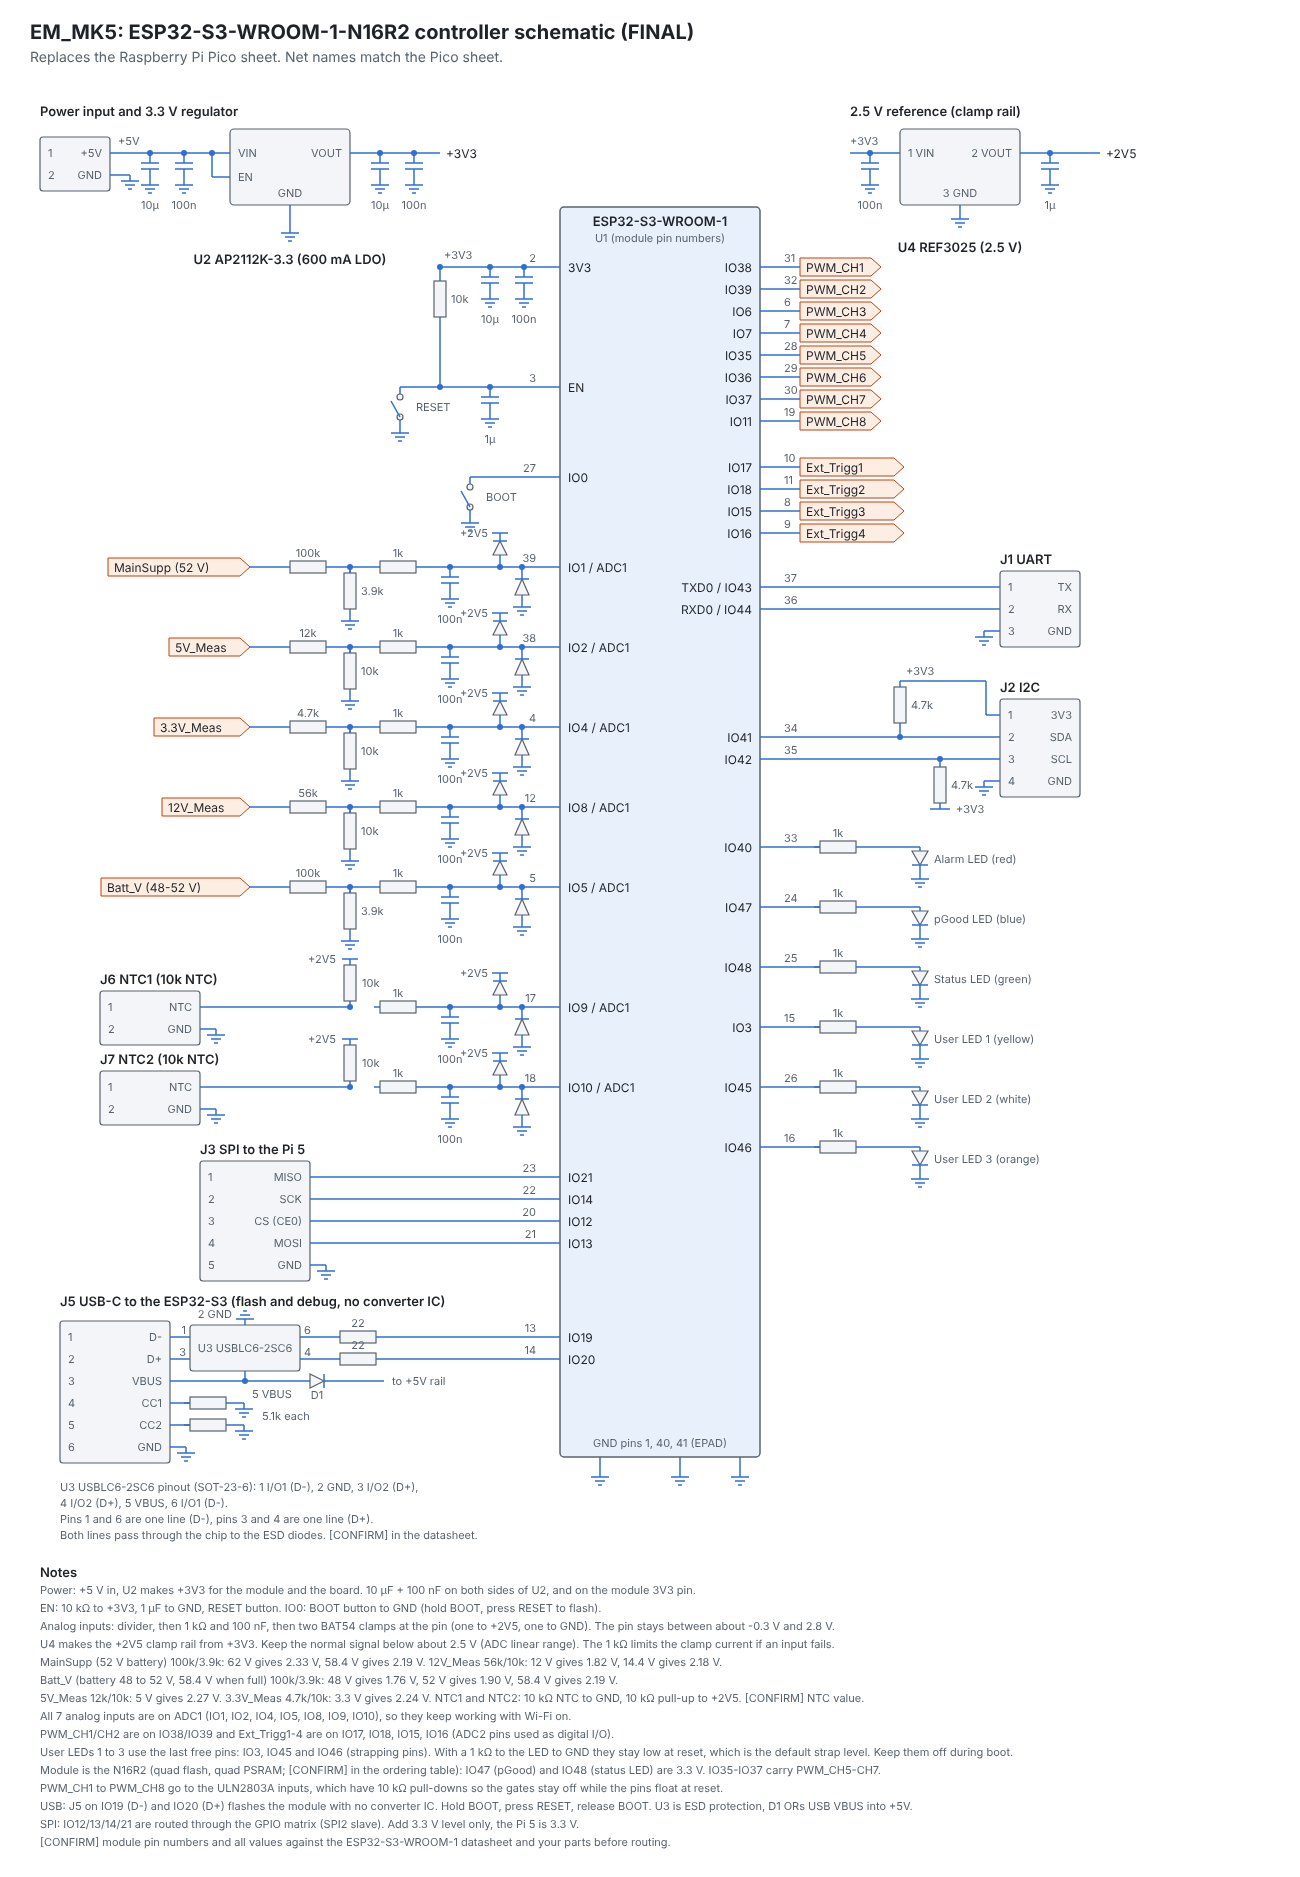
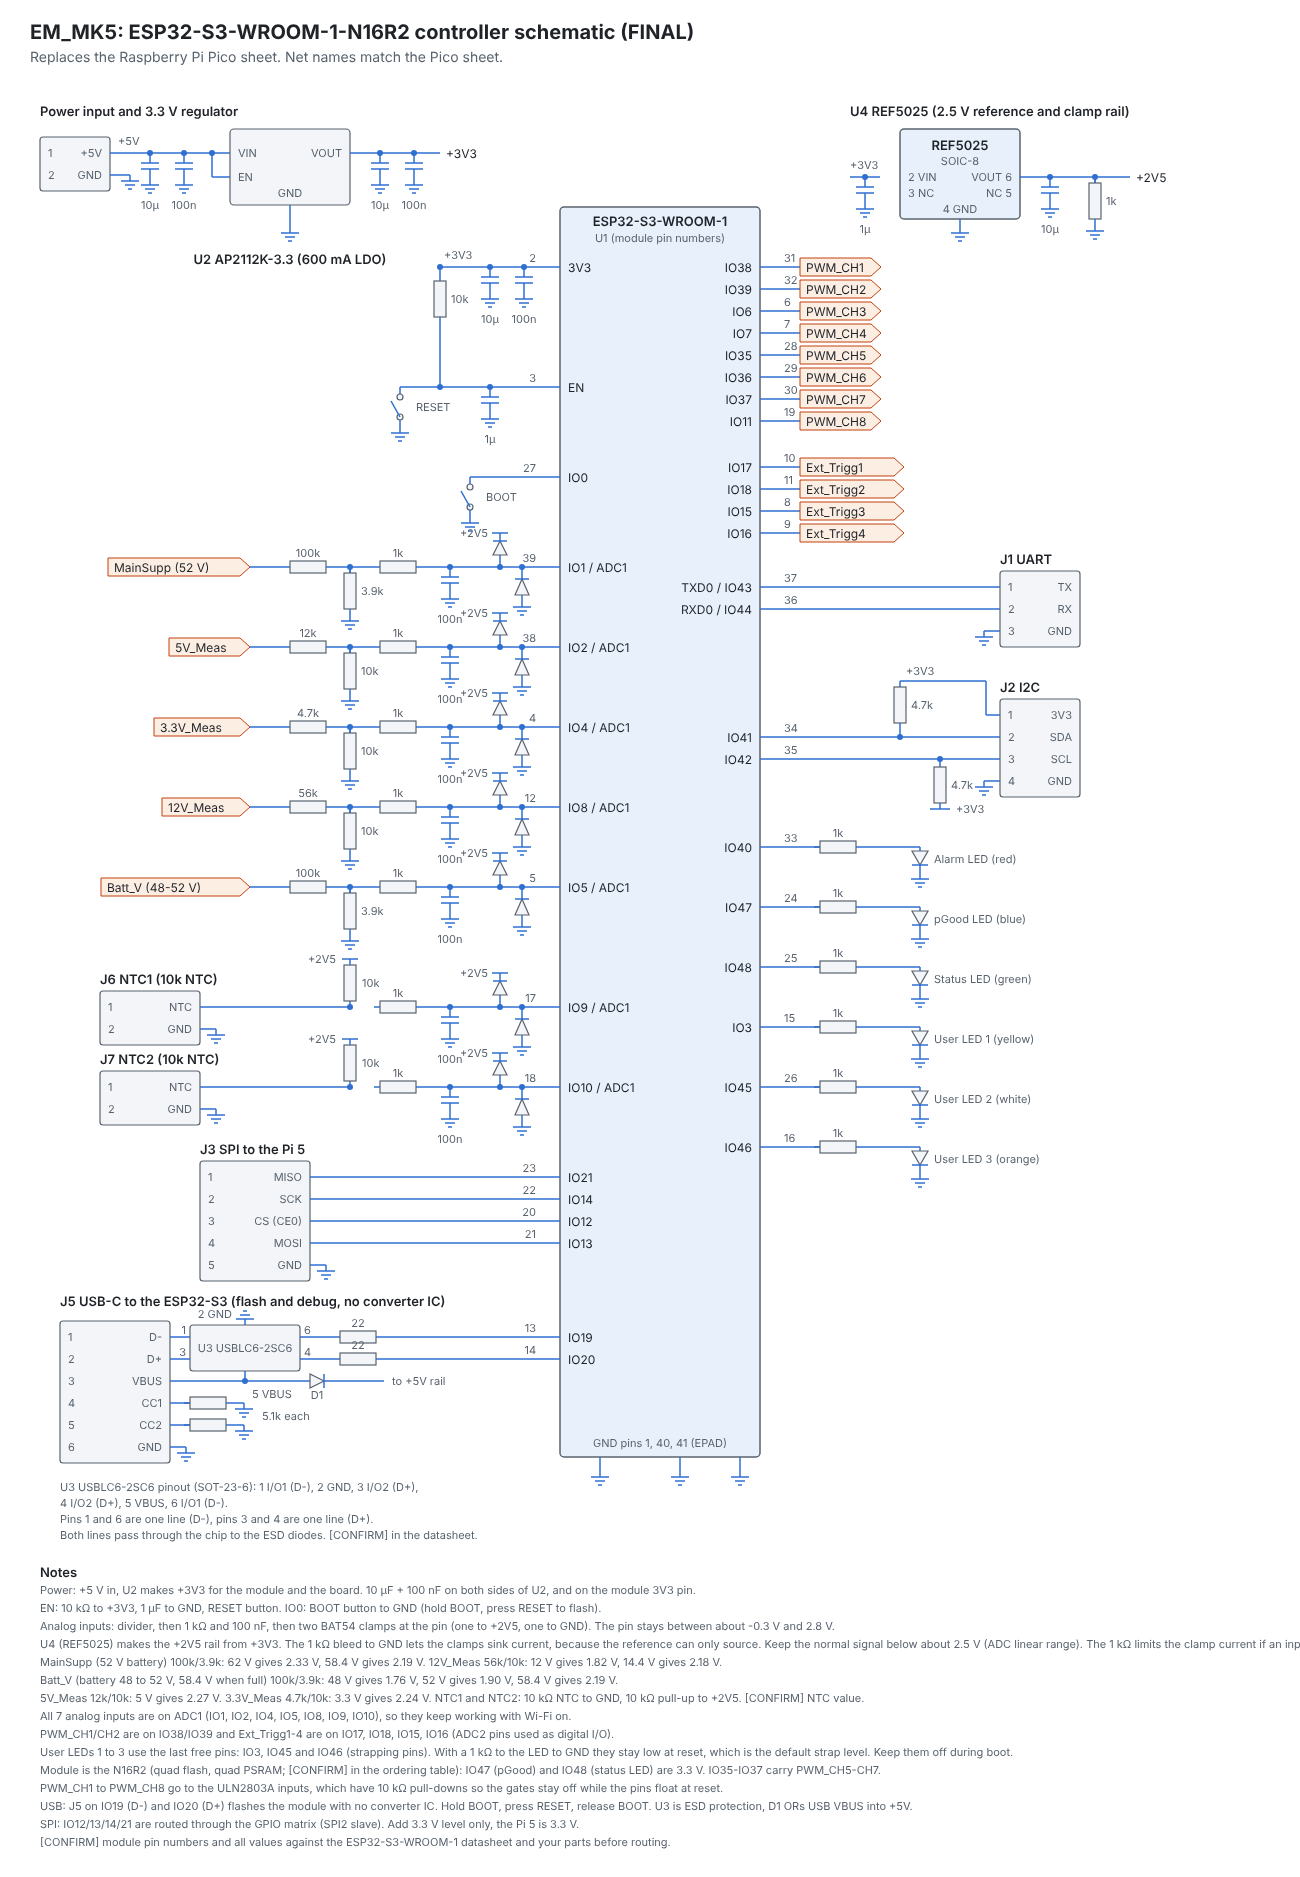
Final schematic: REF5025 as 2.5 V reference, add 1k bleed on +2V5
Claude-Session: https://claude.ai/code/session_0174MNEmDaTV8DPD2QnVHENo

Changed region(s): [[0.6769, 0.0309, 0.8615, 0.1545], [0.6462, 0.0618, 0.6769, 0.1236]]

diff --git a/ESP32_S3_schematic_final.html b/ESP32_S3_schematic_final.html
@@ -167,41 +167,55 @@ svg{width:100%;max-width:1300px;height:auto;display:block;margin:0 auto}
 <line class="w" x1="465" y1="450" x2="475" y2="450"/>
 <line class="w" x1="468" y1="454" x2="472" y2="454"/>
 <text class="s" x="486" y="420" text-anchor="start" dominant-baseline="central">BOOT</text>
-<text class="th" x="850" y="34" text-anchor="start" dominant-baseline="central">2.5 V reference (clamp rail)</text>
-<rect class="c" x="900" y="52" width="120" height="76" rx="4"/>
-<text class="s" x="908" y="76" text-anchor="start" dominant-baseline="central">1 VIN</text>
-<text class="s" x="1012" y="76" text-anchor="end" dominant-baseline="central">2 VOUT</text>
-<text class="s" x="960" y="116" text-anchor="middle" dominant-baseline="central">3 GND</text>
-<line class="w" x1="850" y1="76" x2="900" y2="76"/>
-<text class="s" x="850" y="64" text-anchor="start" dominant-baseline="central">+3V3</text>
-<circle class="d" cx="870" cy="76" r="3"/>
-<line class="w" x1="870" y1="76" x2="870" y2="86"/>
-<line class="w" x1="861" y1="86" x2="879" y2="86"/>
-<line class="w" x1="861" y1="92" x2="879" y2="92"/>
-<line class="w" x1="870" y1="92" x2="870" y2="102"/>
-<line class="w" x1="870" y1="102" x2="870" y2="108"/>
-<line class="w" x1="861" y1="108" x2="879" y2="108"/>
-<line class="w" x1="865" y1="112" x2="875" y2="112"/>
-<line class="w" x1="868" y1="116" x2="872" y2="116"/>
-<text class="s" x="870" y="128" text-anchor="middle" dominant-baseline="central">100n</text>
-<line class="w" x1="960" y1="128" x2="960" y2="136"/>
-<line class="w" x1="960" y1="136" x2="960" y2="142"/>
-<line class="w" x1="951" y1="142" x2="969" y2="142"/>
-<line class="w" x1="955" y1="146" x2="965" y2="146"/>
-<line class="w" x1="958" y1="150" x2="962" y2="150"/>
-<line class="w" x1="1020" y1="76" x2="1100" y2="76"/>
-<circle class="d" cx="1050" cy="76" r="3"/>
-<line class="w" x1="1050" y1="76" x2="1050" y2="86"/>
-<line class="w" x1="1041" y1="86" x2="1059" y2="86"/>
-<line class="w" x1="1041" y1="92" x2="1059" y2="92"/>
-<line class="w" x1="1050" y1="92" x2="1050" y2="102"/>
-<line class="w" x1="1050" y1="102" x2="1050" y2="108"/>
-<line class="w" x1="1041" y1="108" x2="1059" y2="108"/>
-<line class="w" x1="1045" y1="112" x2="1055" y2="112"/>
-<line class="w" x1="1048" y1="116" x2="1052" y2="116"/>
-<text class="s" x="1050" y="128" text-anchor="middle" dominant-baseline="central">1µ</text>
-<text class="t" x="1106" y="76" text-anchor="start" dominant-baseline="central">+2V5</text>
-<text class="th" x="960" y="170" text-anchor="middle" dominant-baseline="central">U4 REF3025 (2.5 V)</text>
+<text class="th" x="850" y="34" text-anchor="start" dominant-baseline="central">U4 REF5025 (2.5 V reference and clamp rail)</text>
+<rect class="m" x="900" y="52" width="120" height="90" rx="4"/>
+<text class="th" x="960" y="68" text-anchor="middle" dominant-baseline="central">REF5025</text>
+<text class="s" x="960" y="84" text-anchor="middle" dominant-baseline="central">SOIC-8</text>
+<text class="s" x="908" y="100" text-anchor="start" dominant-baseline="central">2 VIN</text>
+<text class="s" x="908" y="116" text-anchor="start" dominant-baseline="central">3 NC</text>
+<line class="w" x1="850" y1="100" x2="880" y2="100"/>
+<text class="s" x="850" y="88" text-anchor="start" dominant-baseline="central">+3V3</text>
+<circle class="d" cx="865" cy="100" r="3"/>
+<line class="w" x1="865" y1="100" x2="865" y2="110"/>
+<line class="w" x1="856" y1="110" x2="874" y2="110"/>
+<line class="w" x1="856" y1="116" x2="874" y2="116"/>
+<line class="w" x1="865" y1="116" x2="865" y2="126"/>
+<line class="w" x1="865" y1="126" x2="865" y2="132"/>
+<line class="w" x1="856" y1="132" x2="874" y2="132"/>
+<line class="w" x1="860" y1="136" x2="870" y2="136"/>
+<line class="w" x1="863" y1="140" x2="867" y2="140"/>
+<text class="s" x="865" y="152" text-anchor="middle" dominant-baseline="central">1µ</text>
+<text class="s" x="1012" y="100" text-anchor="end" dominant-baseline="central">VOUT 6</text>
+<line class="w" x1="1020" y1="100" x2="1040" y2="100"/>
+<text class="s" x="1012" y="116" text-anchor="end" dominant-baseline="central">NC 5</text>
+<line class="w" x1="1040" y1="100" x2="1130" y2="100"/>
+<circle class="d" cx="1050" cy="100" r="3"/>
+<line class="w" x1="1050" y1="100" x2="1050" y2="110"/>
+<line class="w" x1="1041" y1="110" x2="1059" y2="110"/>
+<line class="w" x1="1041" y1="116" x2="1059" y2="116"/>
+<line class="w" x1="1050" y1="116" x2="1050" y2="126"/>
+<line class="w" x1="1050" y1="126" x2="1050" y2="132"/>
+<line class="w" x1="1041" y1="132" x2="1059" y2="132"/>
+<line class="w" x1="1045" y1="136" x2="1055" y2="136"/>
+<line class="w" x1="1048" y1="140" x2="1052" y2="140"/>
+<text class="s" x="1050" y="152" text-anchor="middle" dominant-baseline="central">10µ</text>
+<circle class="d" cx="1095" cy="100" r="3"/>
+<line class="w" x1="1095" y1="100" x2="1095" y2="106"/>
+<line class="w" x1="1095" y1="100" x2="1095" y2="106"/>
+<rect class="c" x="1089" y="106" width="12" height="36"/>
+<line class="w" x1="1095" y1="142" x2="1095" y2="148"/>
+<text class="s" x="1106" y="124" text-anchor="start" dominant-baseline="central">1k</text>
+<line class="w" x1="1095" y1="148" x2="1095" y2="154"/>
+<line class="w" x1="1086" y1="154" x2="1104" y2="154"/>
+<line class="w" x1="1090" y1="158" x2="1100" y2="158"/>
+<line class="w" x1="1093" y1="162" x2="1097" y2="162"/>
+<text class="t" x="1136" y="100" text-anchor="start" dominant-baseline="central">+2V5</text>
+<line class="w" x1="960" y1="142" x2="960" y2="150"/>
+<line class="w" x1="960" y1="150" x2="960" y2="156"/>
+<line class="w" x1="951" y1="156" x2="969" y2="156"/>
+<line class="w" x1="955" y1="160" x2="965" y2="160"/>
+<line class="w" x1="958" y1="164" x2="962" y2="164"/>
+<text class="s" x="960" y="132" text-anchor="middle" dominant-baseline="central">4 GND</text>
 <line class="w" x1="540" y1="490" x2="560" y2="490"/>
 <text class="t" x="568" y="490" text-anchor="start" dominant-baseline="central">IO1 / ADC1</text>
 <text class="s" x="536" y="481" text-anchor="end" dominant-baseline="central">39</text>
@@ -936,7 +950,7 @@ svg{width:100%;max-width:1300px;height:auto;display:block;margin:0 auto}
 <text class="s" x="40" y="1513" text-anchor="start" dominant-baseline="central">Power: +5 V in, U2 makes +3V3 for the module and the board. 10 µF + 100 nF on both sides of U2, and on the module 3V3 pin.</text>
 <text class="s" x="40" y="1531" text-anchor="start" dominant-baseline="central">EN: 10 kΩ to +3V3, 1 µF to GND, RESET button. IO0: BOOT button to GND (hold BOOT, press RESET to flash).</text>
 <text class="s" x="40" y="1549" text-anchor="start" dominant-baseline="central">Analog inputs: divider, then 1 kΩ and 100 nF, then two BAT54 clamps at the pin (one to +2V5, one to GND). The pin stays between about -0.3 V and 2.8 V.</text>
-<text class="s" x="40" y="1567" text-anchor="start" dominant-baseline="central">U4 makes the +2V5 clamp rail from +3V3. Keep the normal signal below about 2.5 V (ADC linear range). The 1 kΩ limits the clamp current if an input fails.</text>
+<text class="s" x="40" y="1567" text-anchor="start" dominant-baseline="central">U4 (REF5025) makes the +2V5 rail from +3V3. The 1 kΩ bleed to GND lets the clamps sink current, because the reference can only source. Keep the normal signal below about 2.5 V (ADC linear range). The 1 kΩ limits the clamp current if an input fails.</text>
 <text class="s" x="40" y="1585" text-anchor="start" dominant-baseline="central">MainSupp (52 V battery) 100k/3.9k: 62 V gives 2.33 V, 58.4 V gives 2.19 V. 12V_Meas 56k/10k: 12 V gives 1.82 V, 14.4 V gives 2.18 V.</text>
 <text class="s" x="40" y="1603" text-anchor="start" dominant-baseline="central">Batt_V (battery 48 to 52 V, 58.4 V when full) 100k/3.9k: 48 V gives 1.76 V, 52 V gives 1.90 V, 58.4 V gives 2.19 V.</text>
 <text class="s" x="40" y="1621" text-anchor="start" dominant-baseline="central">5V_Meas 12k/10k: 5 V gives 2.27 V. 3.3V_Meas 4.7k/10k: 3.3 V gives 2.24 V. NTC1 and NTC2: 10 kΩ NTC to GND, 10 kΩ pull-up to +2V5. [CONFIRM] NTC value.</text>

diff --git a/ESP32_S3_pinout.md b/ESP32_S3_pinout.md
@@ -42,3 +42,4 @@ ESP32-S3-WROOM-1 module datasheet before routing the board.
 - ADC1 only (Wi-Fi safe), final: IO1 MainSupp (52 V), IO2 5V_Meas, IO4 3.3V_Meas, IO5 Batt_V (48 to 52 V), IO8 12V_Meas, IO9 NTC1, IO10 NTC2. PWM_CH1/CH2 moved to IO15/IO16 (digital use of ADC2 pins), so pairs are IO15/IO16, IO6/IO7, IO35/IO36, IO37/IO11. This replaces the ADC2 assignments above.
 - Final digital map: PWM_CH1/CH2 on IO38/IO39 (pins 31/32), so the pairs are IO38/IO39, IO6/IO7, IO35/IO36, IO37/IO11. Ext_Trigg1 to Ext_Trigg4 on IO17, IO18, IO15, IO16 (pins 10, 11, 8, 9), which are ADC2 pins used as digital I/O. Ext_Trigg1/2 are outputs, Ext_Trigg3/4 are inputs. This replaces the earlier PWM and trigger assignments.
 - Final schematic: ESP32_S3_schematic_final.html/.png. Last free pins now carry User LED 1 to 3: IO3 (pin 15), IO45 (pin 26), IO46 (pin 16), each 1 kΩ to an LED to GND. These are strapping pins: keep the LEDs off during reset and boot.
+- U4 changed to REF5025 (2.5 V, 0.05%), with a 1 kΩ bleed resistor from +2V5 to GND so the BAT54 clamps can sink current.
